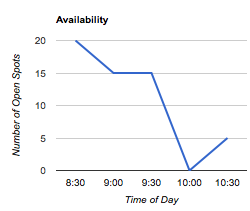
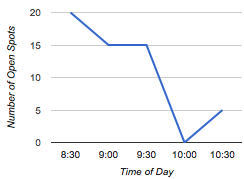
modified infowindow

diff --git a/js/map.js b/js/map.js
@@ -21,11 +21,12 @@ function initMap() {
    '</div>'+
    '<h1 id="firstHeading" class="firstHeading"><center>Hopkins Parking P701D</center></h1>'+ 
    '<div id="bodyContent"><center>'+
-   '<h2><b>Capacity</b></h2>' +
+   '<h3><b>Capacity</b></h3>' +
    '<img src="images/capacity.png" width="25%">' +
    '<p><b>20</b> spots left </p>'+ 
    '<p> Estimate: <b>12</b> spots left in 30 minutes </p>'+
-   '<img src="images/available_spots.png" width="100%">' +
+   '<h3><b>Availability</b></h3>' +
+   '<img src="images/available_spots.png" width="70%">' +
    '</center></div>'+
    '</div>';
             

diff --git a/index.html b/index.html
@@ -28,9 +28,6 @@
       
       <!--^^^^^^^^^^^^^^^Scripts for map^^^^^^^^^^^^^^^^^^-->
       
-      <div class = "element" id = "permitType">
-       <p align=left>Change your permit type</p>
-      
       <div style ="width:220px"; class = "element" id = "permitType"><center>
        <p>Change your permit type</p>
 
